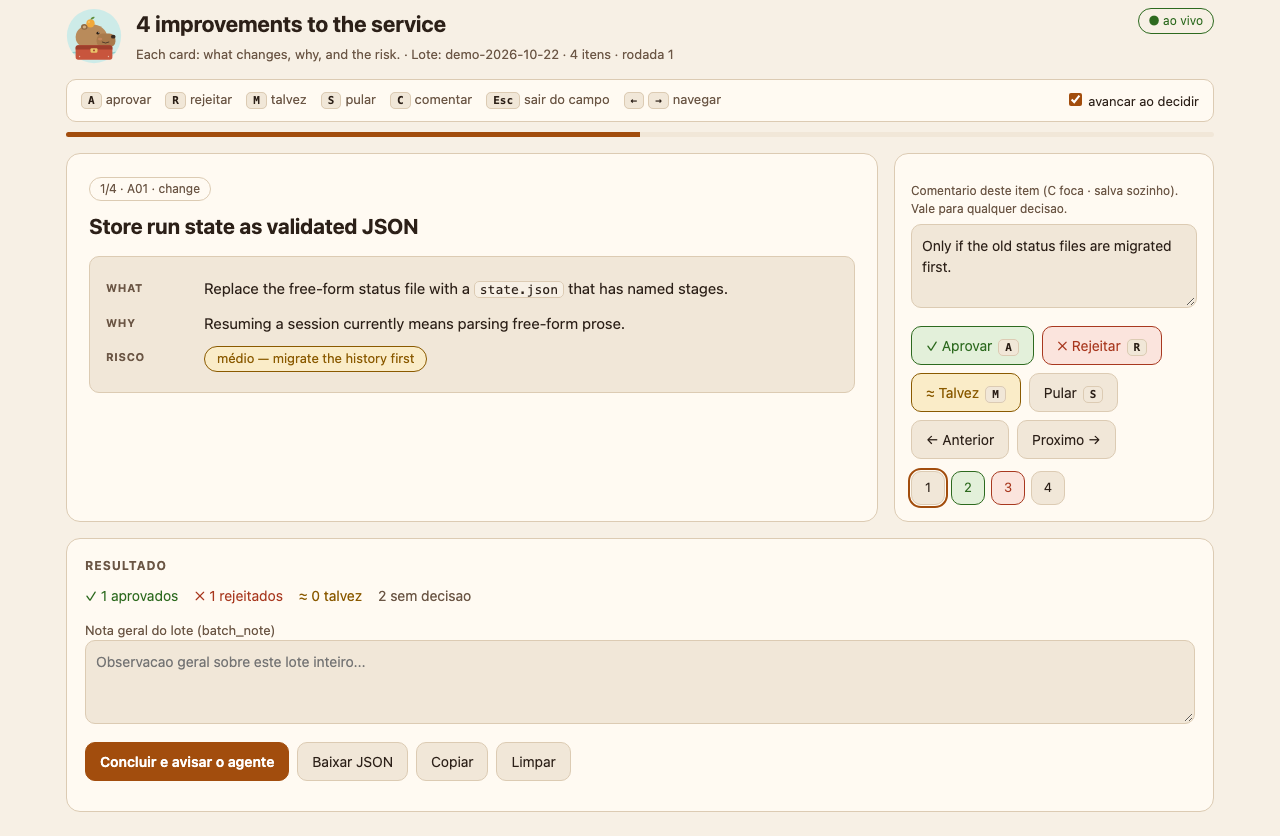
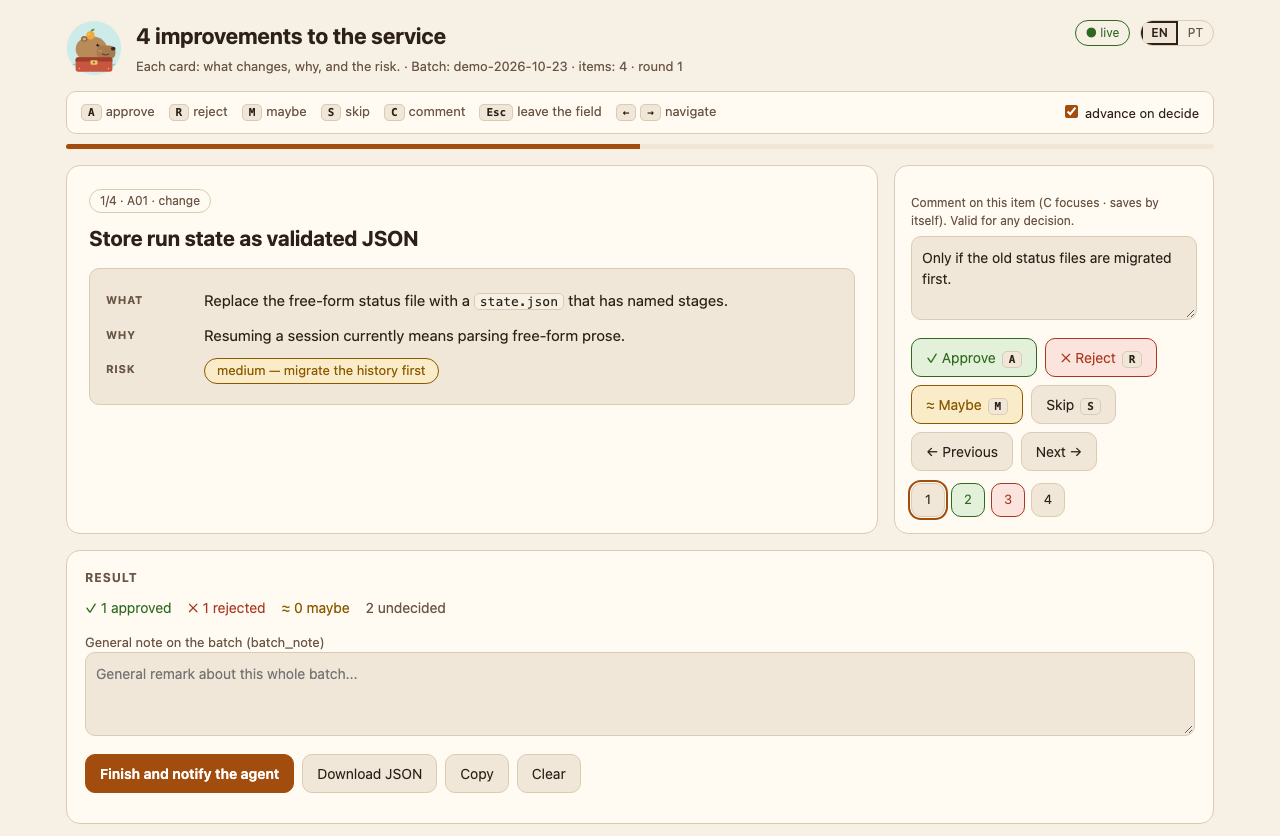
feat(site): the English panel, the i18n releases and 1,031 tests
The screenshot shows the panel in English; the caption, the install note and the
simulated summary no longer say the tools are Portuguese-only; plugin versions
ar-board 1.4.0, tidy-board 0.2.0, housekeeping 0.4.0, header-footer 0.4.0.

diff --git a/site/index.html b/site/index.html
@@ -291,8 +291,8 @@ footer p { margin: 0; }
         <li><h3>It acts on what you approved</h3><p>The agent reads the decisions with <code>summary</code>, is told by its skill to work only on the approved cards, and asks you to confirm the rules it inferred from your comments.</p></li>
       </ol>
       <figure class="shot">
-        <img src="panel.png" width="1280" height="836" loading="lazy" alt="The real ar-board panel: a card showing what, why, and risk; the approve, reject, and maybe buttons; a comment box; and the round's tally. Its labels are in Portuguese.">
-        <figcaption>The real panel on <code>127.0.0.1</code>, with a comment on the current card. Its labels are in Portuguese for now: Aprovar, Rejeitar, and Talvez mean approve, reject, and maybe.</figcaption>
+        <img src="panel.png" width="1280" height="836" loading="lazy" alt="The real ar-board panel: a card showing what, why, and risk; the approve, reject, and maybe buttons; a comment box; and the round's tally. It opens in English; the EN/PT toggle in its header switches it to Portuguese.">
+        <figcaption>The real panel on <code>127.0.0.1</code>, with a comment on the current card. It opens in English, and the EN/PT toggle in its header switches it to Portuguese.</figcaption>
       </figure>
     </div>
   </section>
@@ -301,10 +301,10 @@ footer p { margin: 0; }
     <div class="wrap">
       <p class="kicker">The toolbox</p>
       <h2 class="display">Five plugins, one marketplace</h2>
-      <p class="intro">Each plugin installs on its own, is tested in CI, and is documented in English and Portuguese.</p>
+      <p class="intro">Each plugin installs on its own, is tested in CI, and is documented in English and Portuguese. Panels, cards, and messages are in English by default, with pt-BR on request.</p>
       <div class="grid">
         <article class="plugin wide">
-          <header><h3><span class="dot" style="background:#527D40"></span>ar-board</h3><span class="ver">v1.3.1</span></header>
+          <header><h3><span class="dot" style="background:#527D40"></span>ar-board</h3><span class="ver">v1.4.0</span></header>
           <p>The approve/reject board above, plus custom labels, a confirm step for risky cards, an offline mode for remote sessions, and question-board for answering several questions on one screen.</p>
           <a class="more" href="https://github.com/dvwinck/capybara-toolbox/tree/base/plugins/ar-board">Read about ar-board</a>
         </article>
@@ -314,17 +314,17 @@ footer p { margin: 0; }
           <a class="more" href="https://github.com/dvwinck/capybara-toolbox/tree/base/plugins/publish-check">Read about publish-check</a>
         </article>
         <article class="plugin">
-          <header><h3><span class="dot" style="background:#B5452F"></span>tidy-board</h3><span class="ver">v0.1.1</span></header>
+          <header><h3><span class="dot" style="background:#B5452F"></span>tidy-board</h3><span class="ver">v0.2.0</span></header>
           <p>Stale branches, worktrees, and stashes as cards that show how sure the tool is that each is merged. Only what you approve is deleted, after a fresh check, and work that exists nowhere else is backed up first.</p>
           <a class="more" href="https://github.com/dvwinck/capybara-toolbox/tree/base/plugins/tidy-board">Read about tidy-board</a>
         </article>
         <article class="plugin">
-          <header><h3><span class="dot" style="background:#7CC6C4"></span>housekeeping</h3><span class="ver">v0.3.1</span></header>
+          <header><h3><span class="dot" style="background:#7CC6C4"></span>housekeeping</h3><span class="ver">v0.4.0</span></header>
           <p>doc-truth checks that your docs cite files and links that exist, handoff writes a verified end-of-session note, and todo-sweep triages TODO and FIXME comments on a board, each with its age from <code>git blame</code>.</p>
           <a class="more" href="https://github.com/dvwinck/capybara-toolbox/tree/base/plugins/housekeeping">Read about housekeeping</a>
         </article>
         <article class="plugin">
-          <header><h3><span class="dot" style="background:#6B5240"></span>header-footer</h3><span class="ver">v0.3.0</span></header>
+          <header><h3><span class="dot" style="background:#6B5240"></span>header-footer</h3><span class="ver">v0.4.0</span></header>
           <p>A hook-computed header line with the time and branch, which Claude copies to the top of each reply, plus an optional status line showing token usage and plan limits.</p>
           <a class="more" href="https://github.com/dvwinck/capybara-toolbox/tree/base/plugins/header-footer">Read about header-footer</a>
         </article>
@@ -341,7 +341,7 @@ footer p { margin: 0; }
 <pre id="cmds"><span class="prompt">&gt; </span>/plugin marketplace add dvwinck/capybara-toolbox
 <span class="prompt">&gt; </span>/plugin install ar-board@capybara-toolbox</pre>
       </div>
-      <p class="install-note">Swap <code>ar-board</code> for any plugin above, then restart Claude Code. You need Python 3.9 or later; publish-check, tidy-board, and housekeeping also need <code>git</code>. For header-footer, the status line needs one more step: ask Claude to turn the footer on. The panels, tool-generated cards, and most CLI messages are in Portuguese for now (publish-check’s output is in English); an English ar-board panel is planned for version 1.4.0. CI covers Ubuntu and macOS; Windows is not tested yet.</p>
+      <p class="install-note">Swap <code>ar-board</code> for any plugin above, then restart Claude Code. You need Python 3.9 or later; publish-check, tidy-board, and housekeeping also need <code>git</code>. For header-footer, the status line needs one more step: ask Claude to turn the footer on. Everything the tools show you is in English by default; pass <code>--lang pt-BR</code> or set <code>CAPYBARA_LANG=pt-BR</code> for Portuguese (publish-check is English only). CI covers Ubuntu and macOS; Windows is not tested yet.</p>
     </div>
   </section>
 
@@ -352,7 +352,7 @@ footer p { margin: 0; }
       <div class="principles">
         <div><h3>The tools stay local</h3><p>Panels bind to <code>127.0.0.1</code> with a fresh token per run. No telemetry; the only network call is tidy-board asking <code>gh</code> about merged pull requests.</p></div>
         <div><h3>No packages to install</h3><p>Python standard library and <code>git</code>. No <code>pip</code> and no build step; <code>gh</code> (for tidy-board) and Node (for header-footer) are optional.</p></div>
-        <div><h3>Tested</h3><p>CI runs 915 tests on Ubuntu and macOS with Python 3.9, 3.11, 3.13, and 3.14.</p></div>
+        <div><h3>Tested</h3><p>CI runs 1,031 tests on Ubuntu and macOS with Python 3.9, 3.11, 3.13, and 3.14.</p></div>
         <div><h3>You decide</h3><p>Nothing is deleted without your approval, and no tool edits your source files. Only header-footer touches your Claude settings, and only when you turn it on.</p></div>
       </div>
     </div>
@@ -434,7 +434,7 @@ footer p { margin: 0; }
   }
 
   function finish() {
-    var lines = ["What the agent gets back (simplified; the real summary is in Portuguese):", ""];
+    var lines = ["What the agent gets back (simplified):", ""];
     ["approved", "rejected", "maybe"].forEach(function (d) {
       var ids = CARDS.filter(function (c) { return decisions[c.id] === d; });
       lines.push(LABEL[d] + " (" + ids.length + ")");
